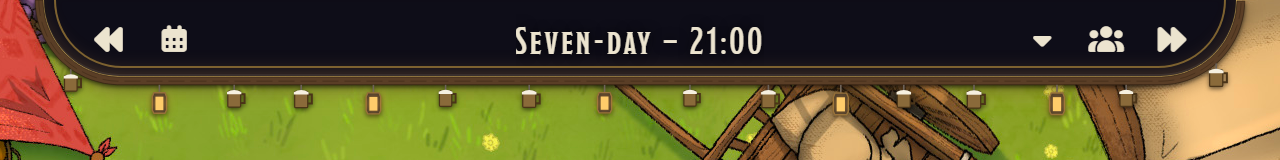
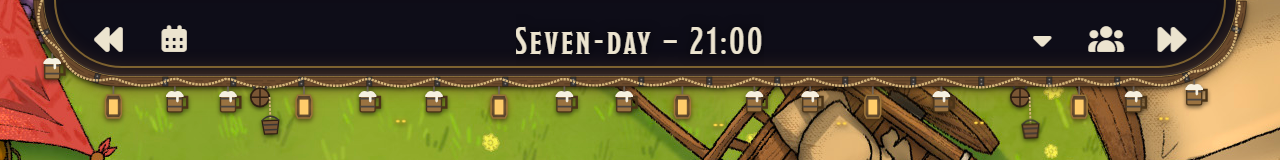
Redraw the Yawning Portal trim around its well
The taproom's beam is iron-strapped and hung with rope, tankards and
lanterns, and a winch at each end lowers a bucket into the well, with
eyes watching from the dark of Undermountain below.

The screenshot script can now take only some bar trims, by name:
--trims yawningportal.

diff --git a/styles/calendar.css b/styles/calendar.css
@@ -878,13 +878,26 @@
 #sdc-calendar .sdc-rain { stroke: rgb(190 215 255 / 70%); stroke-width: 0.35; animation: sdc-fall 1.2s linear infinite; }
 
 /* Tales from the Yawning Portal */
-#sdc-calendar[data-bar-trim="yawningportal"] { --sdc-glow: rgb(255 180 90 / 30%); }
-#sdc-calendar .sdc-beam { fill: #5a3e26; stroke: #2e1e12; stroke-width: 0.3; }
-#sdc-calendar .sdc-beam-grain { fill: none; stroke: #3e2a18; stroke-width: 0.3; stroke-dasharray: 8 3; }
+#sdc-calendar[data-bar-trim="yawningportal"] { --sdc-glow: rgb(255 170 80 / 34%); }
+#sdc-calendar .sdc-beam { fill: #6b4a2c; stroke: #2e1e12; stroke-width: 0.35; }
+#sdc-calendar .sdc-beam-grain { fill: none; stroke: #4a3220; stroke-width: 0.3; stroke-dasharray: 9 2 4 3; }
+#sdc-calendar .sdc-strap { fill: #3a3634; stroke: #1e1c1a; stroke-width: 0.25; }
+#sdc-calendar .sdc-bolt-head { fill: #8a8480; }
+#sdc-calendar .sdc-rope { fill: none; stroke: #d4b47a; stroke-width: 1.2; stroke-dasharray: 1.2 0.45; }
+#sdc-calendar .sdc-rope.line { stroke-width: 0.45; stroke-dasharray: 0.6 0.3; }
 #sdc-calendar .sdc-hook { stroke: #6c625a; stroke-width: 0.4; }
-#sdc-calendar .sdc-tankard .body { fill: #8a6a3a; stroke: #4a3418; stroke-width: 0.3; }
-#sdc-calendar .sdc-tankard .handle { fill: none; stroke: #4a3418; stroke-width: 0.5; }
+#sdc-calendar .sdc-tankard .body { fill: #9a7240; stroke: #4a3418; stroke-width: 0.3; }
+#sdc-calendar .sdc-tankard .hoop { stroke: #4a4440; stroke-width: 0.4; }
+#sdc-calendar .sdc-tankard .handle { fill: none; stroke: #4a3418; stroke-width: 0.55; }
 #sdc-calendar .sdc-tankard .foam { fill: #f6f0e0; }
+#sdc-calendar .sdc-winch .bracket { fill: none; stroke: #3a3634; stroke-width: 0.6; }
+#sdc-calendar .sdc-winch .wheel { fill: #7a5634; stroke: #2e1e12; stroke-width: 0.4; }
+#sdc-calendar .sdc-winch .spokes { stroke: #2e1e12; stroke-width: 0.35; }
+#sdc-calendar .sdc-sway { animation: sdc-sway 6s ease-in-out infinite; }
+#sdc-calendar .sdc-bucket { fill: #7a5634; stroke: #2e1e12; stroke-width: 0.3; }
+#sdc-calendar .sdc-bucket-band { stroke: #3a3634; stroke-width: 0.35; }
+#sdc-calendar .sdc-bucket-handle { fill: none; stroke: #3a3634; stroke-width: 0.35; }
+#sdc-calendar .sdc-lurker { fill: #ffd84a; filter: drop-shadow(0 0 1px #ffb020); animation: sdc-blink 7s ease-in-out infinite; }
 
 /* Waterdeep: Dragon Heist */
 #sdc-calendar[data-bar-trim="dragonheist"] { --sdc-glow: rgb(80 130 255 / 32%); }
@@ -1050,6 +1063,18 @@
   55% { opacity: 0.95; }
 }
 
+@keyframes sdc-sway {
+  0%, 100% { rotate: -2deg; }
+  50% { rotate: 2deg; }
+}
+
+@keyframes sdc-blink {
+  0%, 40%, 100% { opacity: 0; }
+  48%, 88% { opacity: 1; }
+  91% { opacity: 0; }
+  94% { opacity: 1; }
+}
+
 @keyframes sdc-rail {
   to { stroke-dashoffset: -12; }
 }
@@ -1106,7 +1131,13 @@
   #sdc-calendar .sdc-rail.spark,
   #sdc-calendar .sdc-portal .arch,
   #sdc-calendar .sdc-bolt,
-  #sdc-calendar .sdc-sign {
+  #sdc-calendar .sdc-sign,
+  #sdc-calendar .sdc-sway {
     animation: none;
+  }
+
+  #sdc-calendar .sdc-lurker {
+    animation: none;
+    opacity: 0.8;
   }
 }

diff --git a/docs/trims.md b/docs/trims.md
@@ -264,7 +264,7 @@ The five colleges' pennants on a gold cord. Also for *Strixhaven: A Curriculum o
 
 ![The Tales from the Yawning Portal trim on the bar](screenshots/trims/bar-yawningportal.png)
 
-The tavern's beams, hung with tankards and lanterns.
+The taproom's iron-strapped beam, with rope, tankards and lanterns hung from it, a winch at each end lowering a bucket into the well, and eyes watching from the dark of Undermountain.
 
 ### Theros
 
